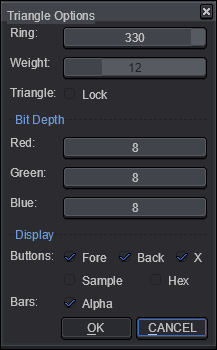
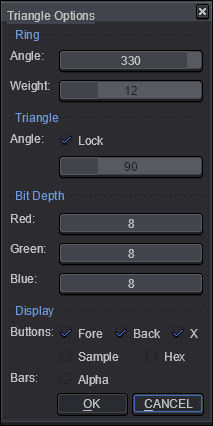
Update readme.

diff --git a/README.md b/README.md
@@ -38,7 +38,7 @@ Colors can be quantized to a bit depth in RGB. Quantization leads to significant
 
 ![Lock Tri](screenCap3.png)
 
-When the triangle's rotation is locked, a white reticle indicates the current hue position.
+When the triangle's rotation is locked, a white reticle indicates the current hue position. The angle of the locked position can be adjusted.
 
 ![Alpha Bar](screenCap4.png)
 
